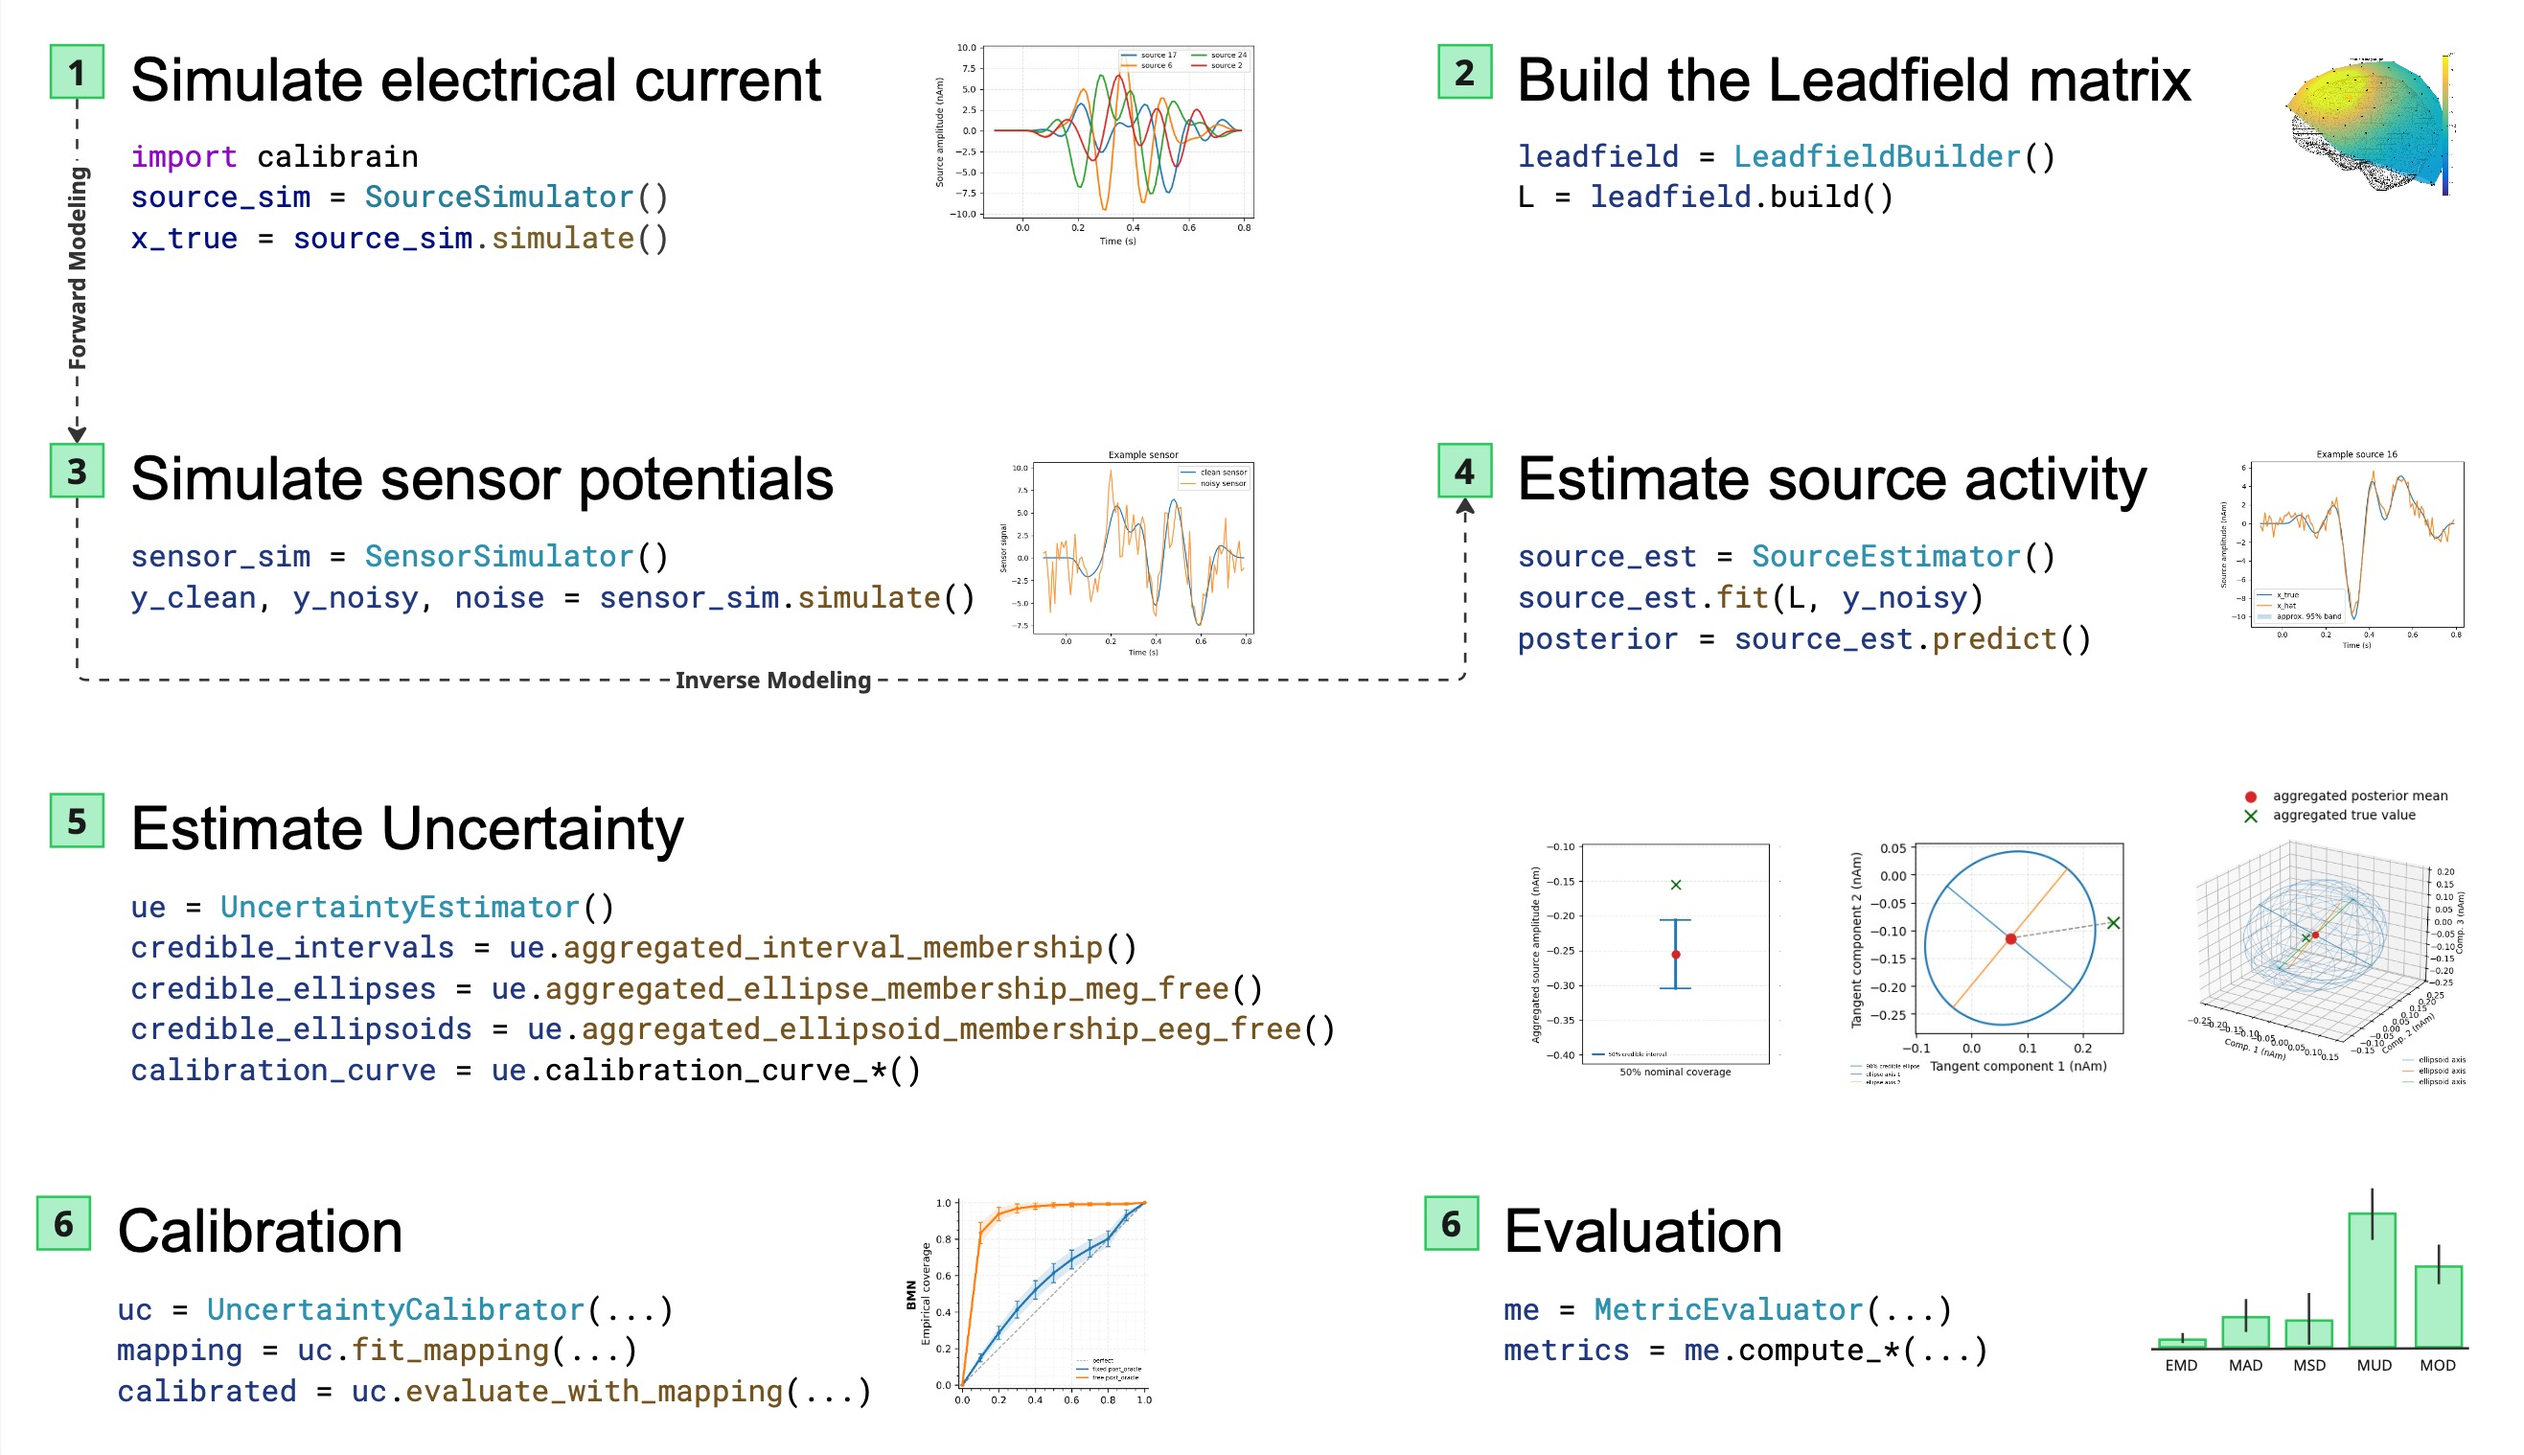
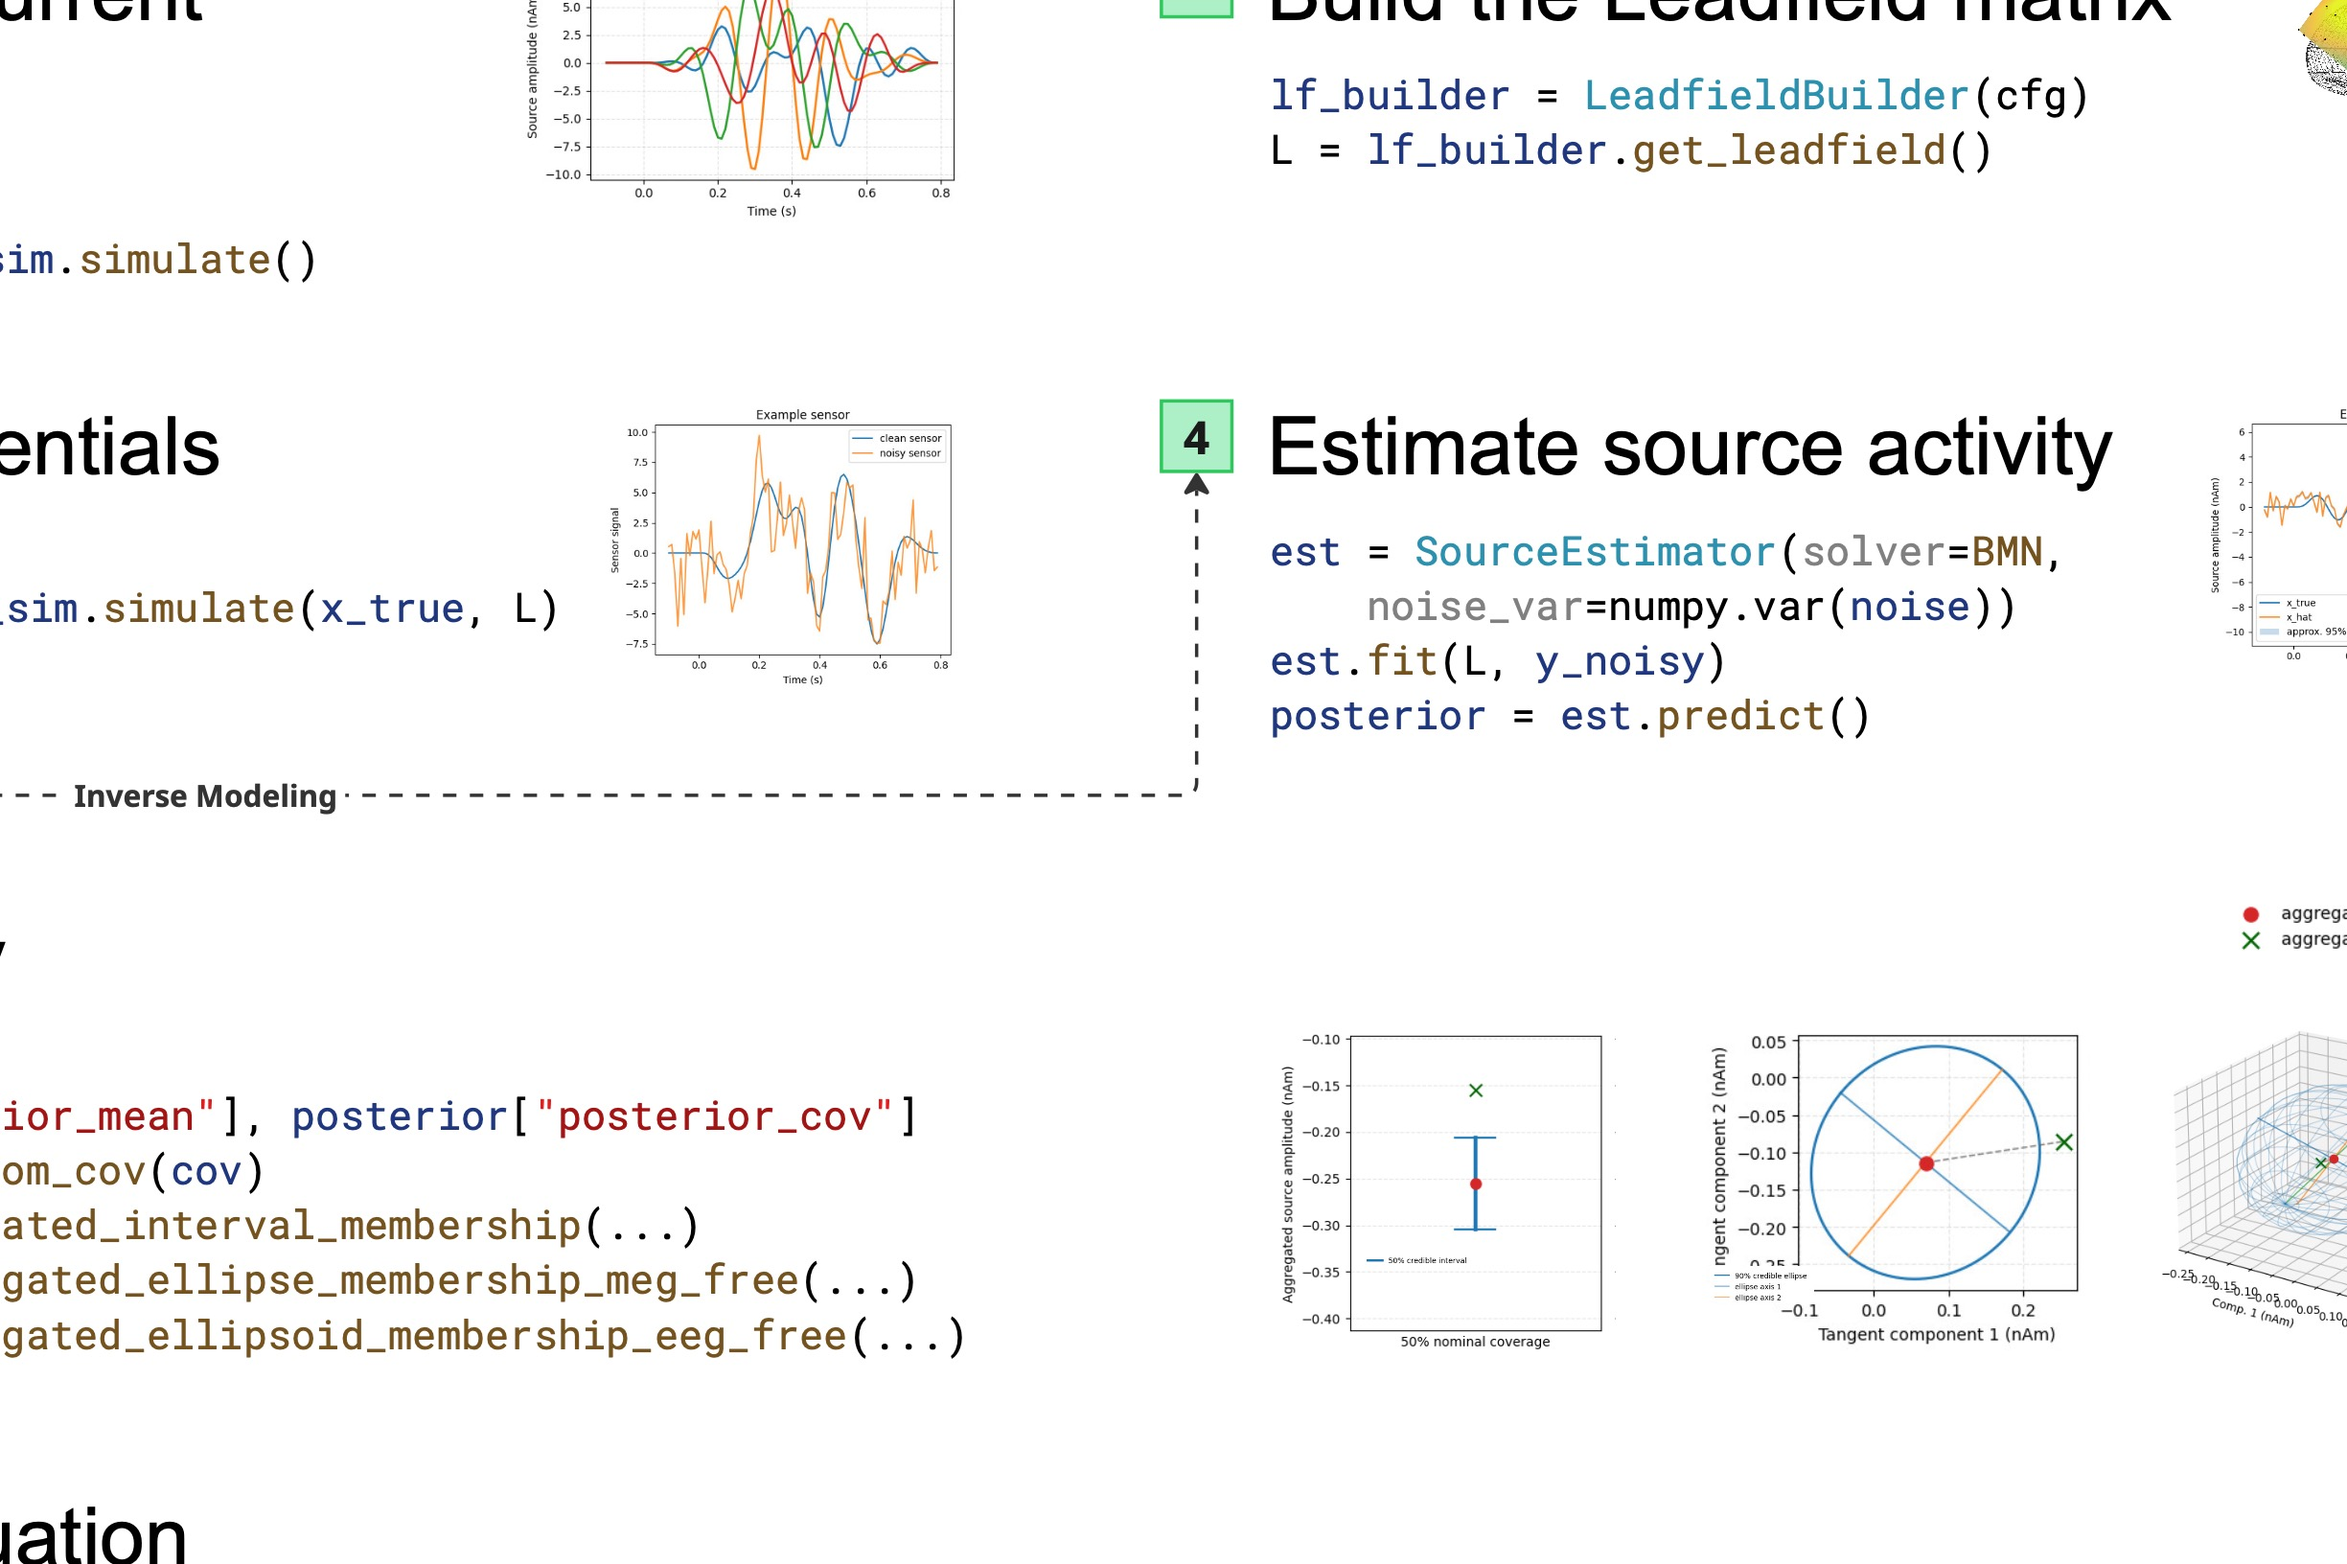
fix: update documentation URLs and improve meta description for clarity

diff --git a/docs/source/conf.py b/docs/source/conf.py
@@ -18,9 +18,13 @@ release = calibrain.__version__
 version = release
 documentation_version = os.environ.get(
     "READTHEDOCS_VERSION",
-    os.environ.get("DOCS_VERSION", "latest"),
+    os.environ.get("DOCS_VERSION", "stable"),
 )
-switcher_json_url = "https://calibrain.readthedocs.io/en/latest/_static/switcher.json"
+switcher_json_url = "https://calibrain.readthedocs.io/stable/_static/switcher.json"
+html_baseurl = os.environ.get(
+    "READTHEDOCS_CANONICAL_URL",
+    "https://calibrain.readthedocs.io/stable/",
+)
 
 # -- General configuration ---------------------------------------------------
 extensions = [
@@ -128,10 +132,6 @@ intersphinx_mapping = {
     'matplotlib': ('https://matplotlib.org/stable/', None),
     'sklearn': ('https://scikit-learn.org/stable/', None),
     'mne': ('https://mne.tools/stable/', None),
-}
-
-html_meta = {
-    "google-site-verification": "U4j0wnWaoGzIzJ5_ThCD3I8YLlSSrcOoIeECjL2nPuk",
 }
 
 html_title = "CaliBrain Documentation"

diff --git a/docs/source/index.rst b/docs/source/index.rst
@@ -1,5 +1,8 @@
 .. CaliBrain documentation master file
 
+.. meta::
+   :description: CaliBrain is a Python toolbox for uncertainty quantification and calibration in EEG/MEG inverse source imaging.
+
 =========
 CaliBrain
 =========
@@ -8,17 +11,17 @@ CaliBrain
    :target: https://pypi.org/project/calibrain/
    :alt: PyPI version
 
-.. image:: https://readthedocs.org/projects/calibrain/badge/?version=latest
-   :target: https://calibrain.readthedocs.io/en/latest/
+.. image:: https://readthedocs.org/projects/calibrain/badge/?version=stable
+   :target: https://calibrain.readthedocs.io/stable/
    :alt: Documentation status
 
 .. image:: https://img.shields.io/pypi/pyversions/calibrain.svg
    :target: https://pypi.org/project/calibrain/
    :alt: Supported Python versions
 
-.. .. image:: https://static.pepy.tech/badge/calibrain
-..    :target: https://pepy.tech/projects/calibrain
-..    :alt: Total downloads
+.. image:: https://static.pepy.tech/badge/calibrain
+   :target: https://pepy.tech/projects/calibrain
+   :alt: Total downloads
 
 .. image:: https://img.shields.io/github/license/braindatalab/CaliBrain
    :target: https://github.com/braindatalab/CaliBrain/blob/main/LICENSE
